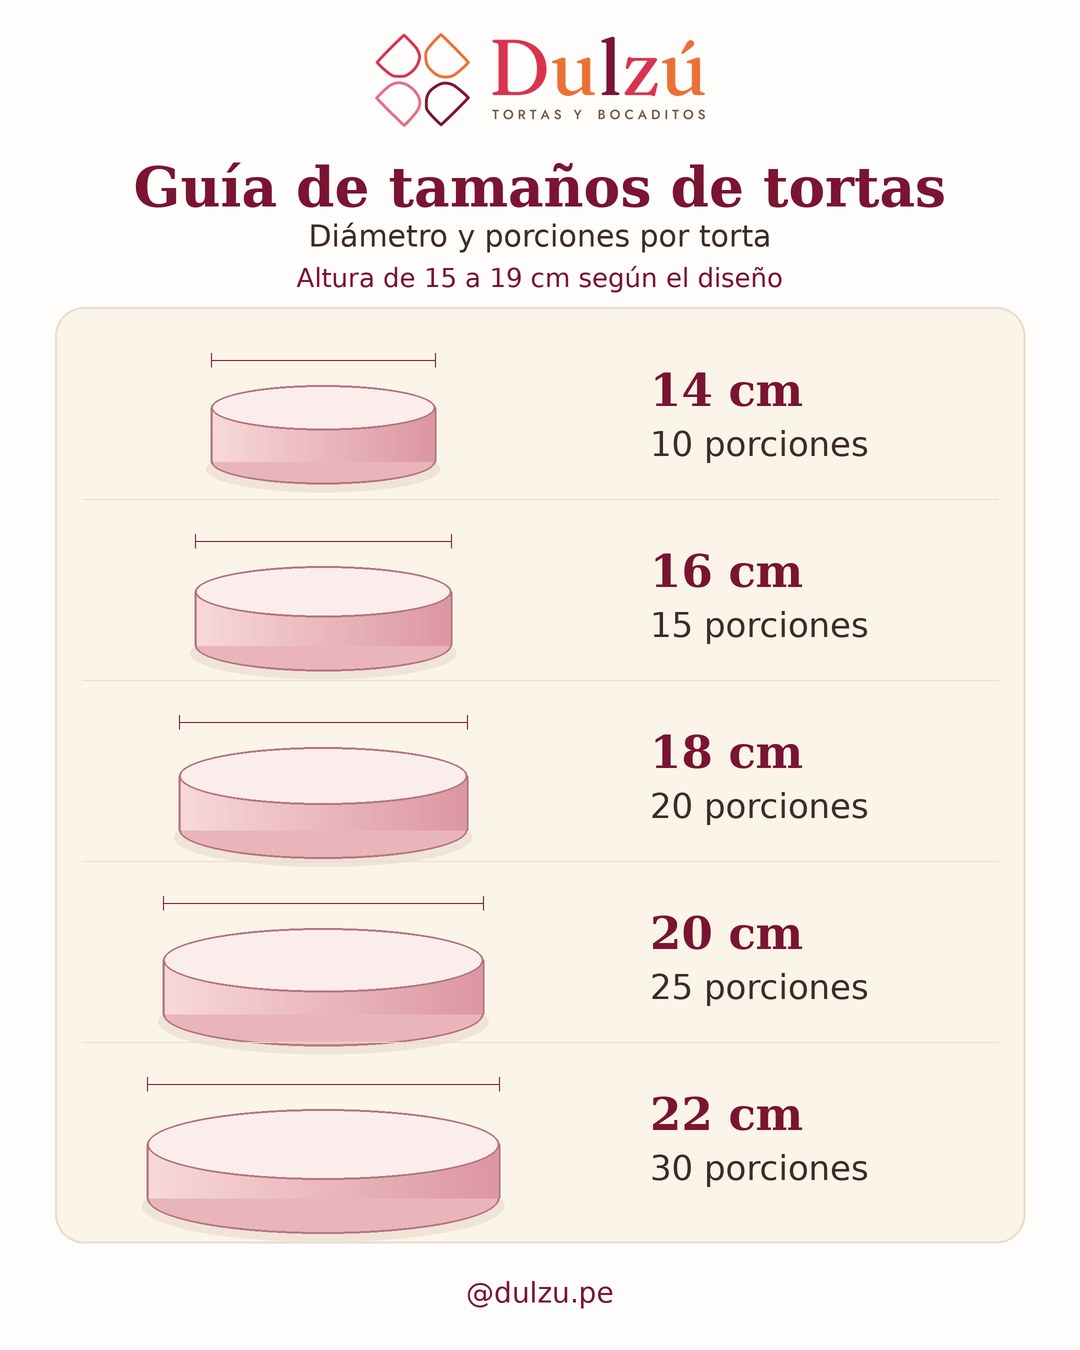
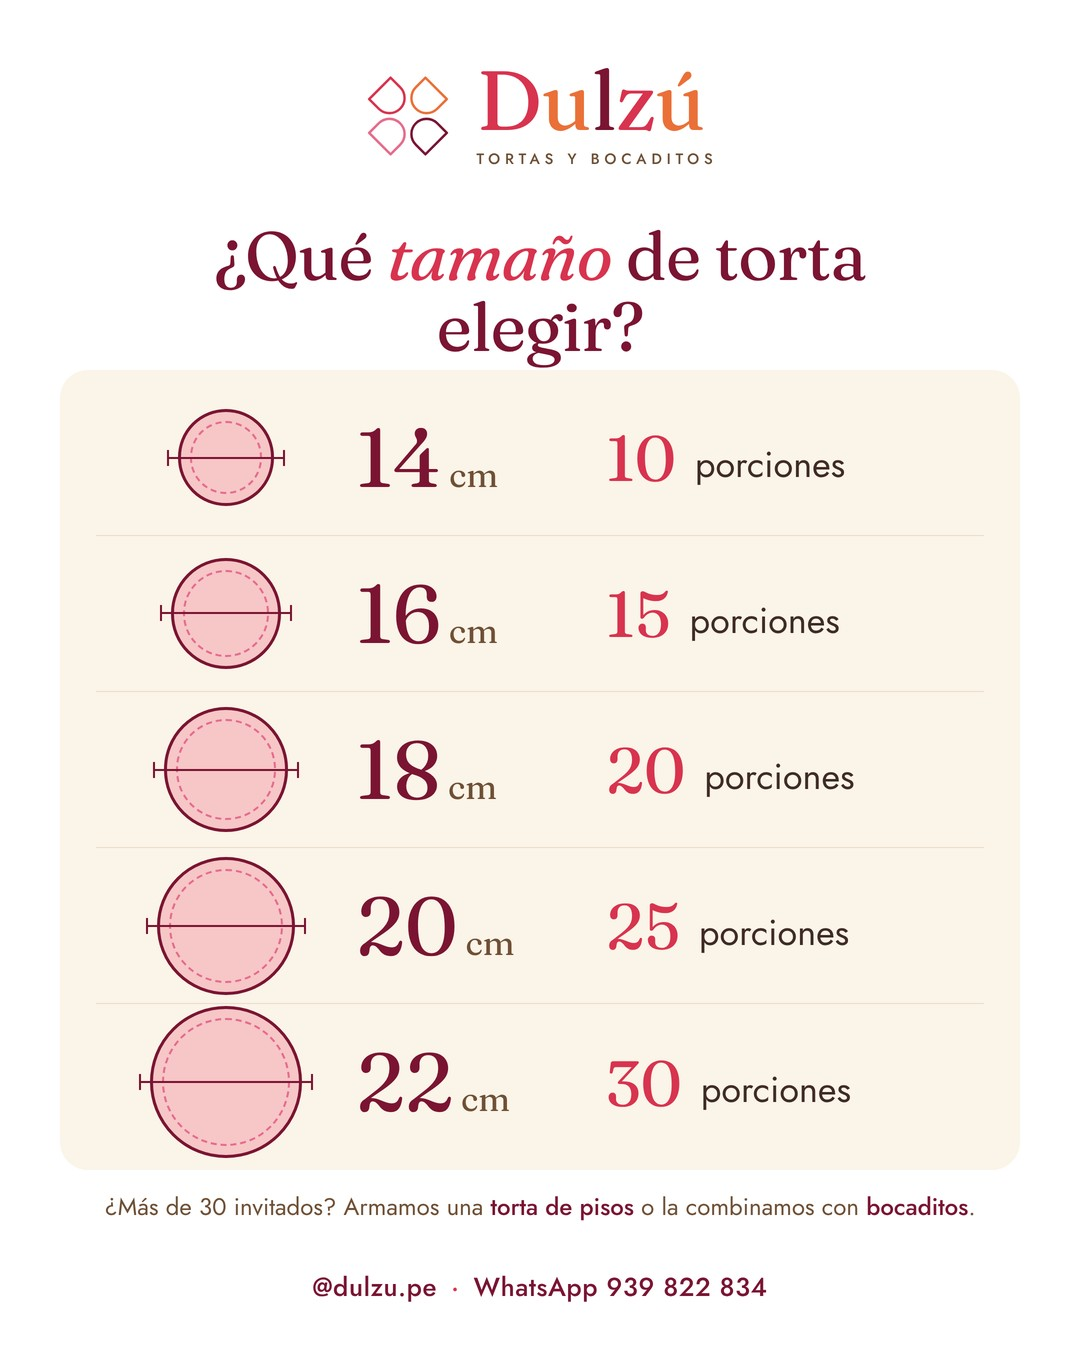
Actualiza guía de tamaños de torta (v2, tipografía y colores de marca)
Claude-Session: https://claude.ai/code/session_01BgB59Vc2JFFm4XzUQYL1LZ

diff --git a/index.html b/index.html
@@ -364,7 +364,7 @@ dialog::backdrop{background:rgba(63,43,38,.4)}
       h+='<div class="slwrap"><div class="slider" id="sl-tortas" tabindex="0" aria-label="Tortas, desliza para ver más">'+P.filter(function(p){return p.cat===c.id;}).map(card).join("")+'</div>'+
         '<div class="slnav"><span class="dots" id="sl-dots"></span><span><button class="arr" type="button" data-sl="-1" aria-label="Anterior">←</button><button class="arr" type="button" data-sl="1" aria-label="Siguiente">→</button></span></div></div>';
       h+='<figure class="guia" id="tamanos"><h3>¿Qué tamaño elegir?</h3><p class="sub">Según los invitados que tengas.</p>'+
-        '<img src="guia-tamanos.jpg" width="1080" height="1350" loading="lazy" alt="Guía de tamaños de tortas Dulzú: 14 cm rinde 10 porciones, 16 cm 15 porciones, 18 cm 20 porciones, 20 cm 25 porciones y 22 cm 30 porciones. Altura de 15 a 19 cm según el diseño.">'+
+        '<img src="guia-tamanos.jpg?v=2" width="1080" height="1350" loading="lazy" alt="Guía de tamaños de tortas Dulzú: 14 cm rinde 10 porciones, 16 cm 15 porciones, 18 cm 20 porciones, 20 cm 25 porciones y 22 cm 30 porciones. Altura de 15 a 19 cm según el diseño.">'+
         '<a class="btn" target="_blank" rel="noopener" href="'+wa("¡Hola Dulzú! Quiero cotizar una torta.\n\nNúmero de invitados: \nFecha del evento: \nDistrito: ")+'" style="background:var(--coral)">Cotizar mi torta</a></figure>';
     } else {
       if(c.id==="tematicos") h+=carrusel("tem");
